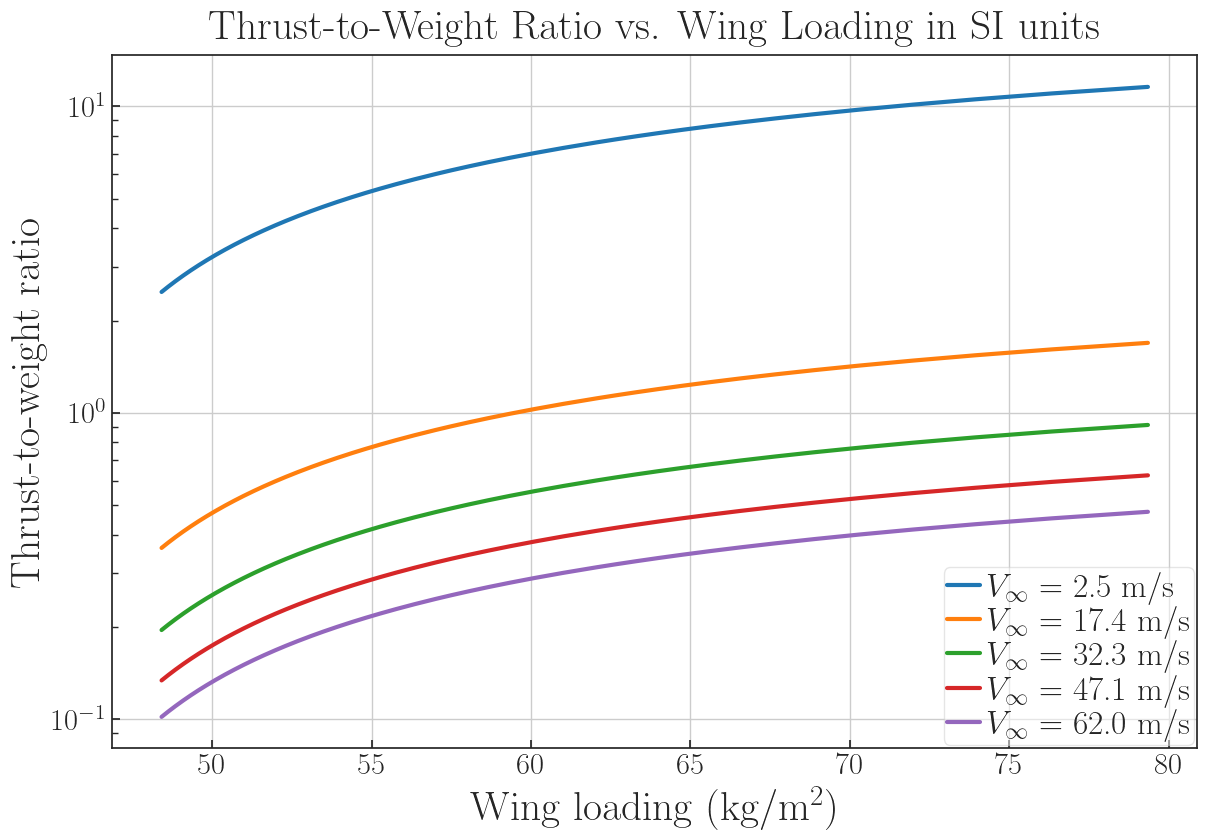
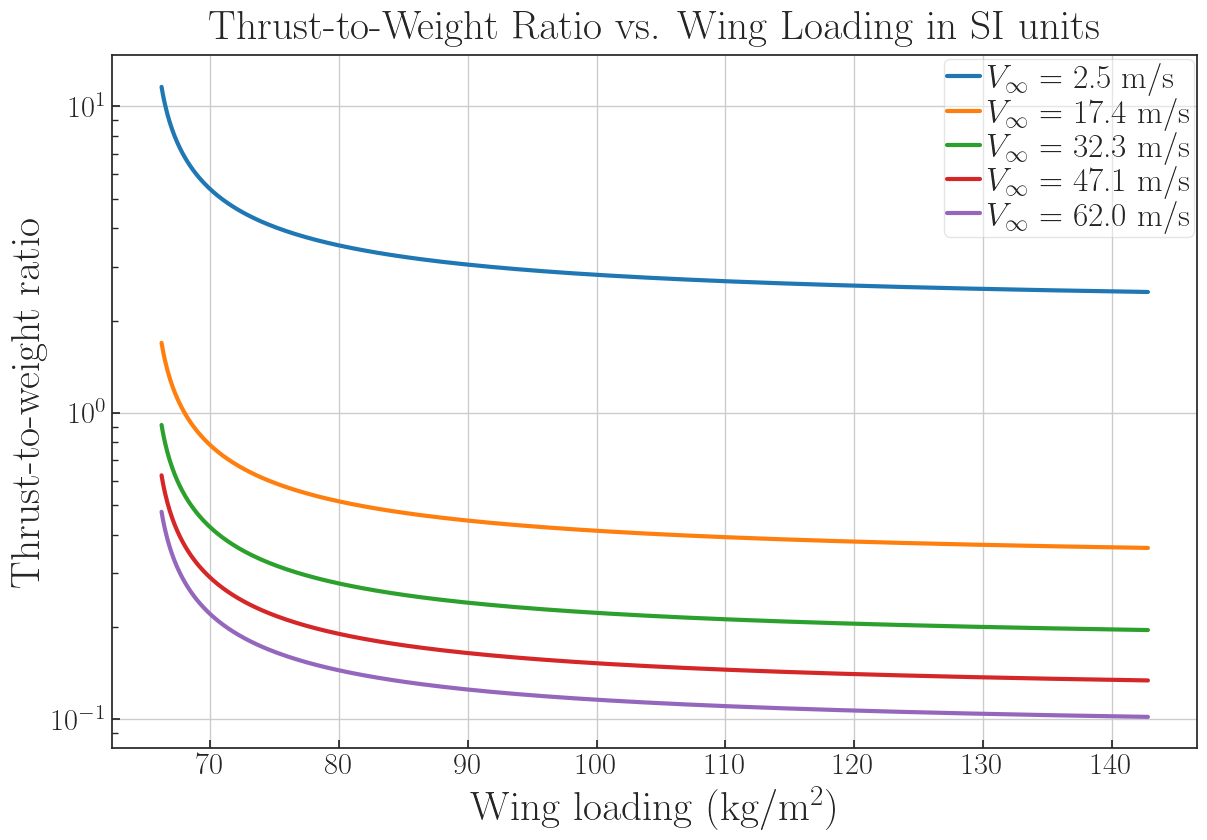
Resolving conflicts with Mpuso
TVG 03.17.2021

diff --git a/Sizing/sizing_figures.py b/Sizing/sizing_figures.py
@@ -282,8 +282,9 @@ def sizing_figures(Sizing, S_wing_LO, S_wing_HI, S_disk_LO, S_disk_HI, num):
     plt.figure(8)
     for i in range(rows):
         label_val = "$V_\infty$ = " + str(round(V[i], 1)) + " m/s"
-        plt.semilogy(wing_loading_2, T_W[i], label=label_val)
+        plt.semilogy(wing_loading_1, T_W[i], label=label_val)
     title = "Thrust-to-Weight Ratio vs. Wing Loading in SI units"
+    plt.plot((79, 79), (0.003, 20))
     plt.title(title)
     # plt.grid()
     plt.ylabel("Thrust-to-weight ratio")
